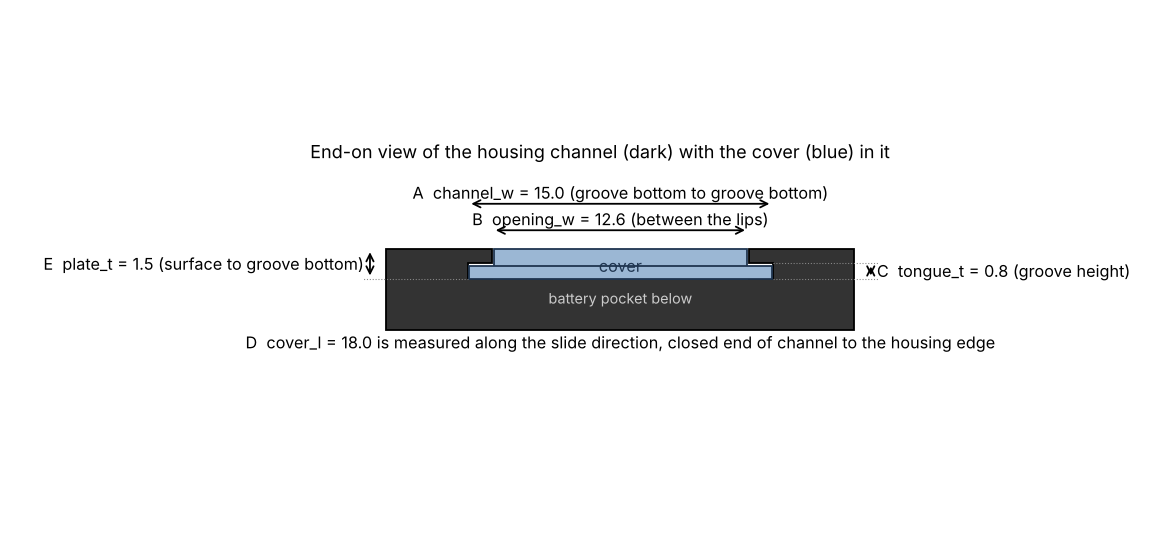
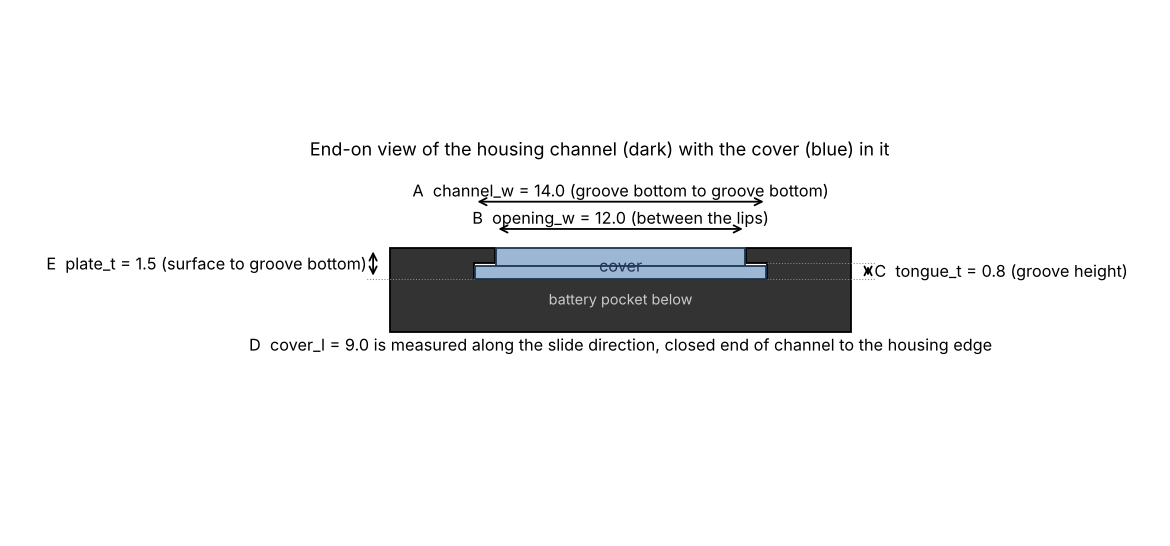
Caliper battery cover: use measured 12 x 9 mm opening, add snap bumps
Opening between the lips is 12 mm and the channel is 9 mm long, so the
cover is wider than it is long. Channel width is now derived from the
opening plus an assumed 1 mm lip per side. Two 1.2 mm bumps under the
open end, 1.5 mm in from each side edge, drop into the housing dimples.
Fit-test coupons, README and previews follow the new defaults.

Claude-Session: https://claude.ai/code/session_015yxBLniJu6qNzJ13rXQ1tF

Changed region(s): [[0.0308, 0.3425, 0.9846, 0.6538], [0.2462, 0.2491, 0.7692, 0.3114], [0.4615, 0.5293, 0.5846, 0.5604]]

diff --git a/designs/caliper-battery-cover/build.py b/designs/caliper-battery-cover/build.py
@@ -5,7 +5,7 @@ This mirrors caliper_battery_cover.scad so the STLs can be produced without
 OpenSCAD installed. The .scad file is the one to edit; if you have OpenSCAD,
 `openscad -o cover.stl caliper_battery_cover.scad` is the simpler route.
 
-Usage:  python3 build.py [--channel-w 15.0] [--opening-w 12.6] [--cover-l 18]
+Usage:  python3 build.py [--opening-w 12] [--lip-w 1.0] [--cover-l 9]
                          [--plate-t 1.5] [--tongue-t 0.8] [--clearance 0.15]
 Outputs: cover.stl, fit_test.stl, preview_cover.png, cross_section.png
 """
@@ -70,14 +70,19 @@ def battery_pad(p):
 
 
 def detent(p):
+    """Two snap bumps under the open end, one near each side edge."""
     if p.detent_d <= 0:
         return []
     cx = p.cover_l - p.detent_x
-    sph = trimesh.creation.icosphere(subdivisions=3, radius=p.detent_d / 2)
-    sph.apply_translation([cx, 0, p.detent_d / 2 - p.detent_h])
-    keep = abox(cx - p.detent_d, -p.detent_d, -p.detent_h,
-                2 * p.detent_d, 2 * p.detent_d, p.detent_h + p.tongue_t - p.clearance)
-    return [trimesh.boolean.intersection([sph, keep], engine="manifold")]
+    cy = (p.channel_w - p.clearance) / 2 - p.detent_inset
+    bumps = []
+    for sy in (-1, 1):
+        sph = trimesh.creation.icosphere(subdivisions=3, radius=p.detent_d / 2)
+        sph.apply_translation([cx, sy * cy, p.detent_d / 2 - p.detent_h])
+        keep = abox(cx - p.detent_d, sy * cy - p.detent_d, -p.detent_h,
+                    2 * p.detent_d, 2 * p.detent_d, p.detent_h + p.tongue_t - p.clearance)
+        bumps.append(trimesh.boolean.intersection([sph, keep], engine="manifold"))
+    return bumps
 
 
 def end_lip(p):
@@ -113,10 +118,11 @@ def render_preview(mesh, path, title):
     import matplotlib.pyplot as plt
     from mpl_toolkits.mplot3d.art3d import Poly3DCollection
 
-    fig = plt.figure(figsize=(10, 4.5), dpi=130)
-    views = [("top (outside face)", 55, -60), ("underside (tongues + chamfer)", -40, -120)]
+    fig = plt.figure(figsize=(13, 4.5), dpi=130)
+    views = [("top (outside face)", 55, -60), ("underside, open end toward you", -35, -20),
+             ("straight on from below", -90, -90)]
     for k, (name, elev, azim) in enumerate(views):
-        ax = fig.add_subplot(1, 2, k + 1, projection="3d")
+        ax = fig.add_subplot(1, 3, k + 1, projection="3d")
         tri = mesh.vertices[mesh.faces]
         coll = Poly3DCollection(tri, facecolor="#9bb7d4", edgecolor="#2b3a4a", linewidths=0.15)
         ax.add_collection3d(coll)
@@ -191,28 +197,33 @@ def render_cross_section(p, path):
 
 def main():
     ap = argparse.ArgumentParser()
-    ap.add_argument("--channel-w", type=float, default=15.0)
-    ap.add_argument("--opening-w", type=float, default=12.6)
-    ap.add_argument("--cover-l", type=float, default=18.0)
+    ap.add_argument("--opening-w", type=float, default=12.0)
+    ap.add_argument("--lip-w", type=float, default=1.0,
+                    help="lip overhang per side; channel_w = opening_w + 2 * lip_w unless --channel-w is given")
+    ap.add_argument("--channel-w", type=float, default=None)
+    ap.add_argument("--cover-l", type=float, default=9.0)
     ap.add_argument("--plate-t", type=float, default=1.5)
     ap.add_argument("--tongue-t", type=float, default=0.8)
     ap.add_argument("--clearance", type=float, default=0.15)
     ap.add_argument("--lead-chamfer", type=float, default=0.4)
-    ap.add_argument("--grip-ribs", type=int, default=3)
+    ap.add_argument("--grip-ribs", type=int, default=2)
     ap.add_argument("--rib-w", type=float, default=0.6)
     ap.add_argument("--rib-h", type=float, default=0.35)
     ap.add_argument("--rib-pitch", type=float, default=1.6)
-    ap.add_argument("--rib-inset", type=float, default=2.0)
+    ap.add_argument("--rib-inset", type=float, default=3.0)
     ap.add_argument("--battery-pad-h", type=float, default=0.0)
     ap.add_argument("--battery-pad-d", type=float, default=8.0)
     ap.add_argument("--battery-x", type=float, default=8.0)
-    ap.add_argument("--detent-d", type=float, default=0.0)
+    ap.add_argument("--detent-d", type=float, default=1.2)
     ap.add_argument("--detent-h", type=float, default=0.3)
-    ap.add_argument("--detent-x", type=float, default=4.0)
+    ap.add_argument("--detent-x", type=float, default=1.5)
+    ap.add_argument("--detent-inset", type=float, default=1.5)
     ap.add_argument("--end-lip-h", type=float, default=0.0)
     ap.add_argument("--end-lip-t", type=float, default=1.0)
     ap.add_argument("--out", default=HERE)
     p = ap.parse_args()
+    if p.channel_w is None:
+        p.channel_w = p.opening_w + 2 * p.lip_w
 
     c = cover(p)
     f = fit_test(p)

diff --git a/designs/caliper-battery-cover/README.md b/designs/caliper-battery-cover/README.md
@@ -23,16 +23,16 @@ Files:
 
 ## Default dimensions
 
-These are best guesses from the photo and from published covers for the same
-housing, not measurements of your caliper. Check them before printing the final
-part.
+B and D were measured on the caliper. The rest are still estimates. The two
+snap bumps at the open end match the two dimples in the housing, about 1.5 mm
+in from the side edges and from the opening.
 
 | Letter | Parameter | Default | What to measure |
 | --- | --- | --- | --- |
-| A | `channel_w` | 15.0 mm | Width of the channel from the bottom of one groove to the bottom of the other. Hardest one to see. Use the fit test coupons instead if in doubt. |
-| B | `opening_w` | 12.6 mm | Visible opening between the two lips, measured at the housing surface. |
+| A | `channel_w` | 14.0 mm | Width of the channel from the bottom of one groove to the bottom of the other. Set through `lip_w` (1.0 mm per side, estimated). Hardest one to see, so use the fit test coupons. |
+| B | `opening_w` | 12.0 mm | Visible opening between the two lips, measured at the housing surface. Measured. |
 | C | `tongue_t` | 0.8 mm | Height of the groove. A feeler gauge or the depth rod works. |
-| D | `cover_l` | 18.0 mm | Along the slide direction, from the closed end of the channel to the edge of the housing. |
+| D | `cover_l` | 9.0 mm | Along the slide direction, from the closed end of the channel to the edge of the housing. Measured. The cover is wider than it is long. |
 | E | `plate_t` | 1.5 mm | From the housing surface down to the bottom of the groove. |
 
 ![cross section](cross_section.png)
@@ -41,21 +41,25 @@ part.
 
 1. Print `fit_test.stl`. Slide each coupon into the channel from the beam end.
    The coupon that is snug but moves without force gives you `channel_w`
-   (1 notch = 14.5, 2 notches = 15.0, 3 notches = 15.5). If none fits, change
-   `channel_w` and rebuild.
+   (1 notch = 13.5, 2 notches = 14.0, 3 notches = 14.5). If none fits, change
+   `lip_w` and rebuild.
 2. Measure B, C, D and E and set them in the `.scad` file, or pass them to
    `build.py`:
 
    ```
-   python3 build.py --channel-w 15.0 --opening-w 12.6 --cover-l 18 --plate-t 1.5 --tongue-t 0.8
+   python3 build.py --opening-w 12 --lip-w 1.0 --cover-l 9 --plate-t 1.5 --tongue-t 0.8
    ```
 
 3. Print `cover.stl`.
 
-Optional features in the `.scad` file, all off by default because their
-position depends on the housing:
+The underside is one flat plane: the centre of the cover and the tongues share
+the same bottom face, so the cover presses the cell down to the level of the
+grooves. The thicker centre section stands up between the lips, flush with the
+housing surface.
 
-- `detent_d`: a small round bump on the underside that clicks into a notch.
+Optional features in the `.scad` file:
+
+- `detent_d`, `detent_x`, `detent_inset`: the two snap bumps under the open end (on by default, 1.2 mm wide, 0.3 mm proud). Set `detent_d = 0` to remove them.
 - `battery_pad_h`: a pad on the underside that presses the cell against its contact if the cell sits loose.
 - `end_lip_h`: a downward lip at the open end that closes off the housing opening.
 
